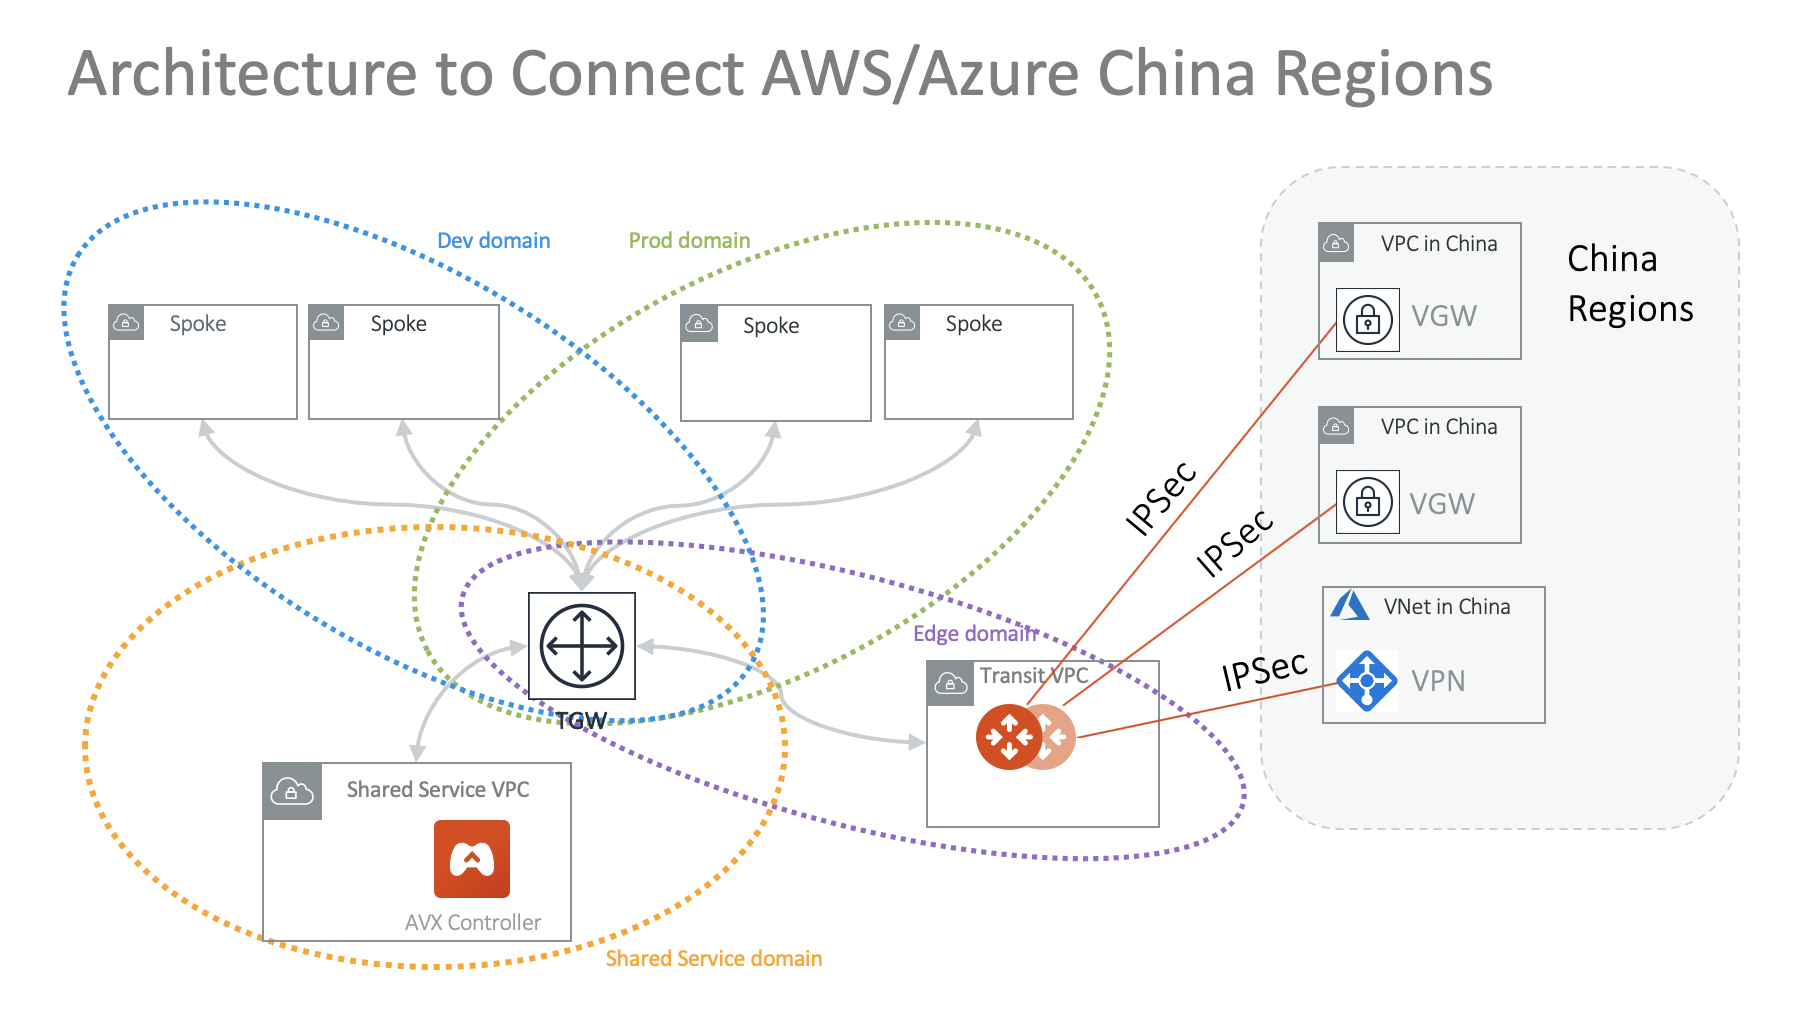
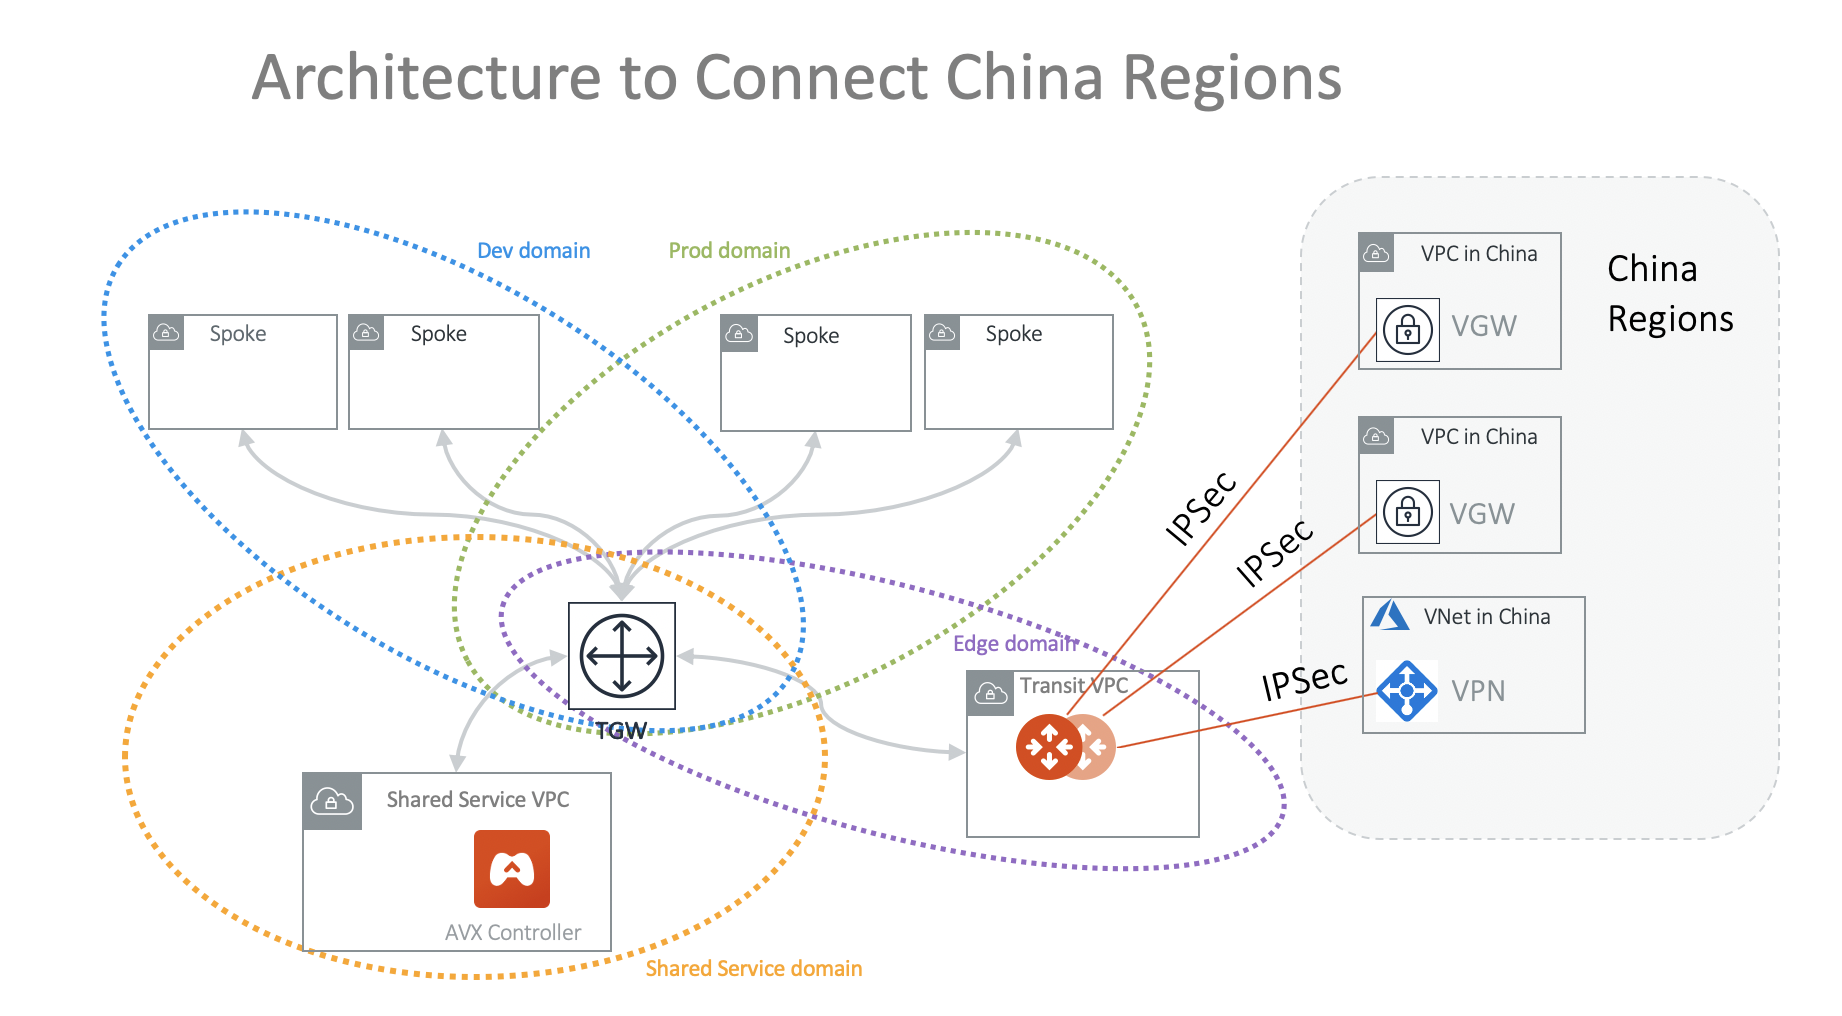
update china in tgw design patterns

diff --git a/HowTos/tgw_design_patterns.rst b/HowTos/tgw_design_patterns.rst
@@ -134,12 +134,12 @@ Aviatrix supports TGW VPN and TGW Direct Connect for connecting to remote site o
 
 |firenet|
 
-Connecting to AWS & Azure China Regions
+Connecting to China Regions
 ----------------------------------------
 
 If the majority of deployment is outside China regions, the best way to connect China region VPC or VNets are to 
 use the cloud native AWS VGW or Azure VPN gateway and connect them to Aviatrix Transit Gateway by IPSec tunnels, as 
-shown in the diagram below. 
+shown in the diagram below. This architecture applies to all other cloud providers that have presence in China regions. 
 
 |tgw_china|
 
